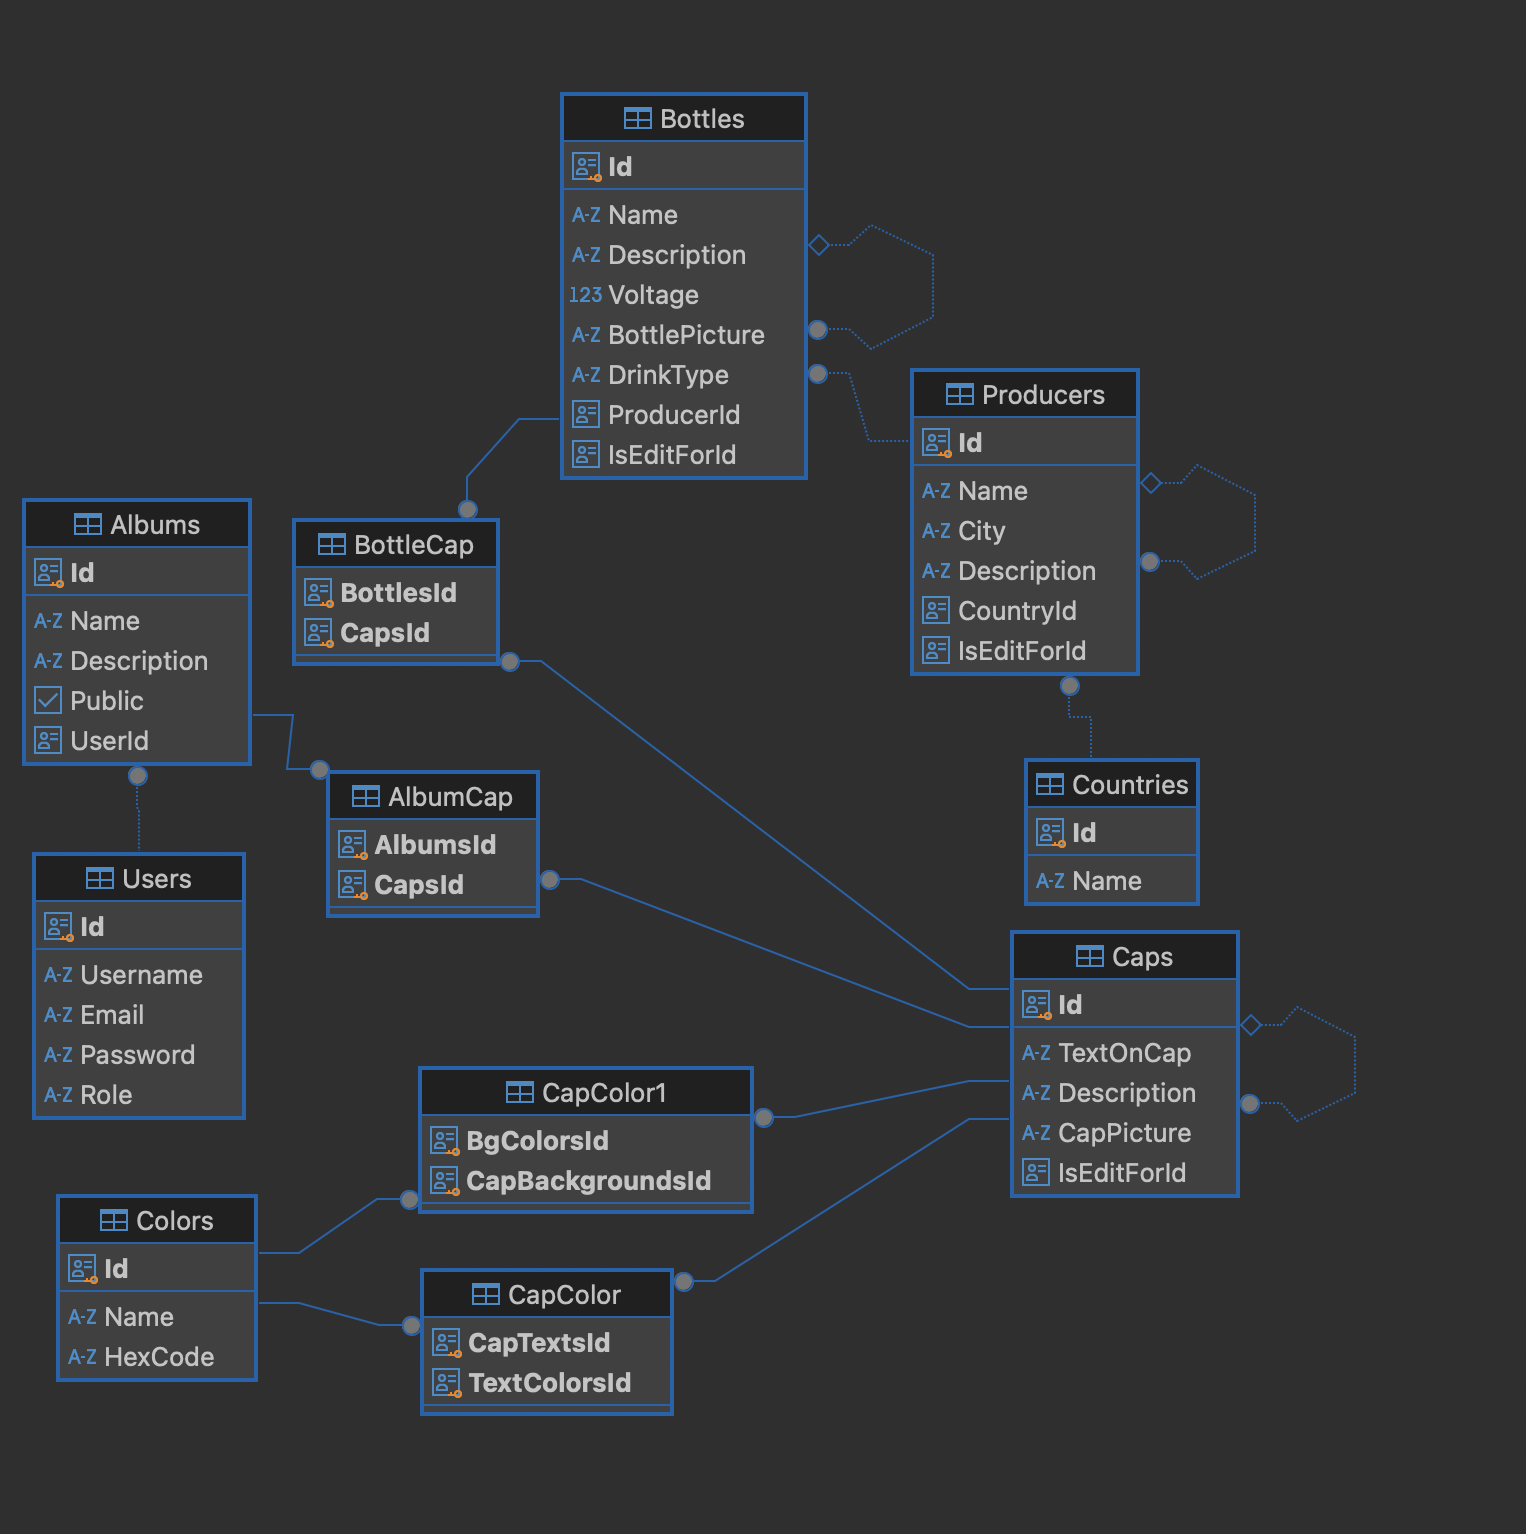
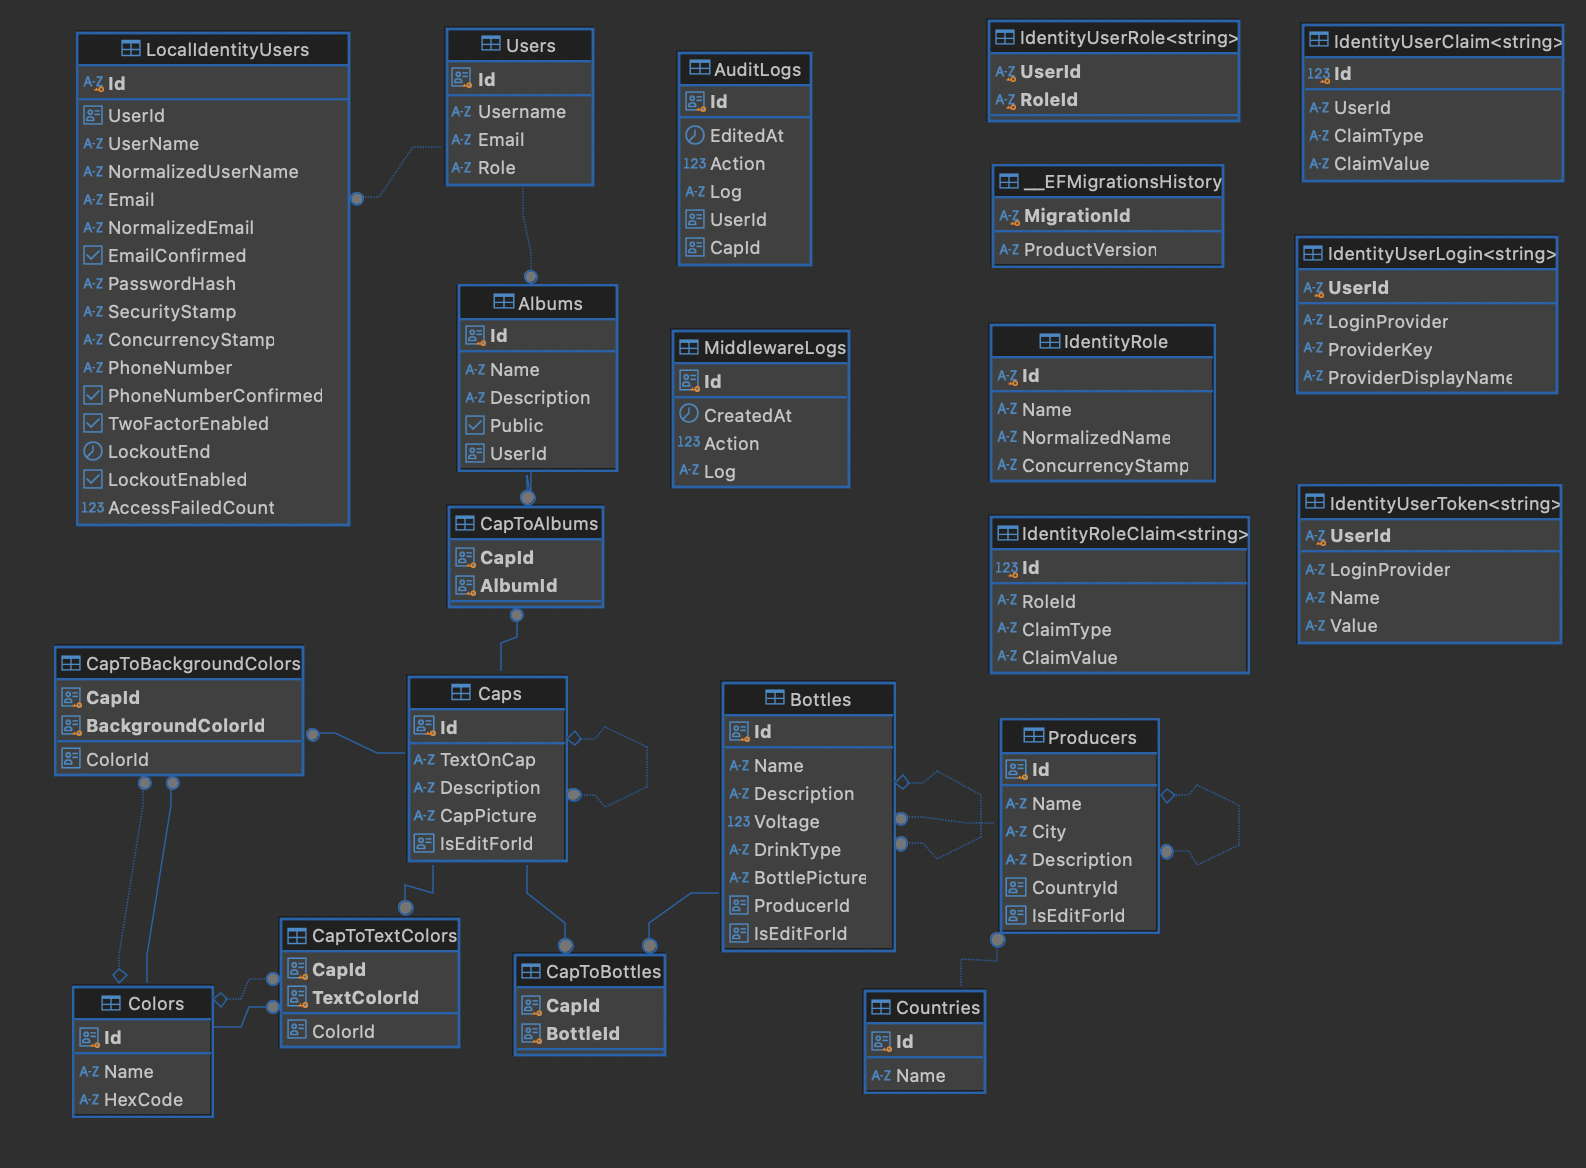
Change TODO

diff --git a/TODO.md b/TODO.md
@@ -11,26 +11,24 @@
 ### Milestone 2 Tasks
 - [x] Create admin and leaderboard service
 - [x] Write tests to Ted's service using mocking. Ensure tests are meaningful.
-- [ ] Implement Audit Logging:
-    - Track information about who edited the Product entity and how many times it was edited overall
 - [x] Modify data seeding to use Bogus (or a similar NuGet package)
 - [x] Develop Middleware to:
     - Transform API response to XML or JSON
-    - Default format should be JSON unless specified in the query parameter
-    - Ensure MVC and WebAPI are set up as separate projects, allowing them to:
-        - Operate under different configurations
-        - Use different database setups
-        - Maintain clear boundaries, ensuring API endpoints are not accessible from MVC, and vice versa
+
+
 ## Petr's Tasks
 
-- [ ] Create user service
-- [ ] Write tests to David's service using mocking. Ensure tests are meaningful.
+- [x] Create user service
+- [x] Write tests to David's service using mocking. Ensure tests are meaningful.
 - [x] Update GitLab settings to:
     - Allow only successful merge requests to be merged
     - Require 1 approval for merging (effective from the start of working on the 2nd milestone)
 - [x] Integrate an Identity Framework:
     - Develop a separate MVC application for this
     - For the current milestone, only implement authentication using the Identity Framework
+- [x] Implement Audit Logging:
+    - Track information about who edited the Product entity and how many times it was edited overall
+
 
 ## Ted's Tasks
 
@@ -38,19 +36,16 @@
 - [x] Split project into multiple projects
 
 ### Milestone 2 Tasks
-- [ ] Create some services services
-- [ ] Write tests to Petr's service using mocking. Ensure tests are meaningful.
-- [ ] Set up a CI/CD pipeline for merge requests
-- [ ] Update documentation:
+- [x] Create Cap, Color, Country services
+- [x] Write tests to Petr's service using mocking. Ensure tests are meaningful.
+- [x] Set up a CI/CD pipeline for merge requests
+- [x] Update documentation:
     - Update the readme to match the current codebase
-- [ ] Ensure log data from LogMiddleware is saved into a database (hint: consider using a separate database for storing logs)
+- [x] Ensure log data from LogMiddleware is saved into a database (hint: consider using a separate database for storing logs)
+- [x] Client requests the ability to use images on the website and prefers that they be saved directly to the hard drive for easy access and management
 
-## Unassigned Tasks
 
-- [ ] Client requests the ability to use images on the website and prefers that they be saved directly to the hard drive for easy access and management
-
-# Tasks that David don't understand why they exist
-- [ ] optional: add .ini / config file
-- [ ] write some meaningful tests for DAL
-- [ ] tests for services and API / controllers
-- [ ] remove overkill Actions in Loggers (It works, dont touch it)
+# Misc
+- [x] optional: add .ini / config file
+- [x] tests for services and API / controllers
+- [x] remove overkill Actions in Loggers (It works, dont touch it)

diff --git a/README.md b/README.md
@@ -40,11 +40,16 @@ dotnet build
 dotnet run
 ```
 
+Je potřeba po setupu potřeba vytvořit .env souboru z .evn.example a doplnit do něj potřebné proměnné.
+
+
 Používej formatter před každým commitem. Jinak neprojde CR.
 
 ```
  dotnet format ../CapEnjoyer.sln
 ```
+
+
 ## Technický pohled
 
 ![ERD diagram](erd.png)
